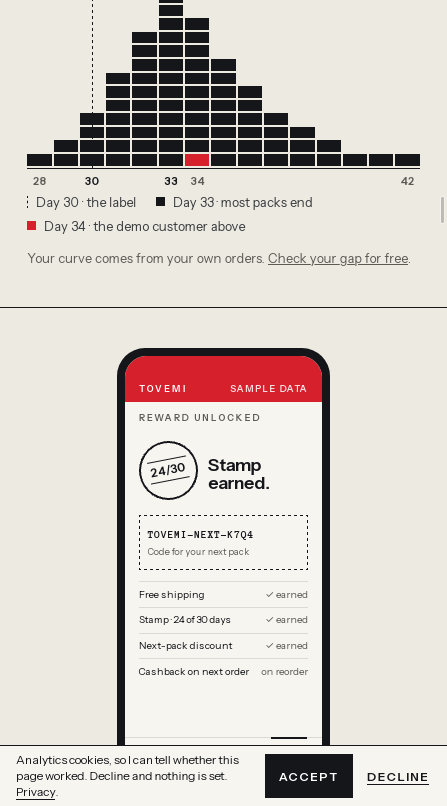
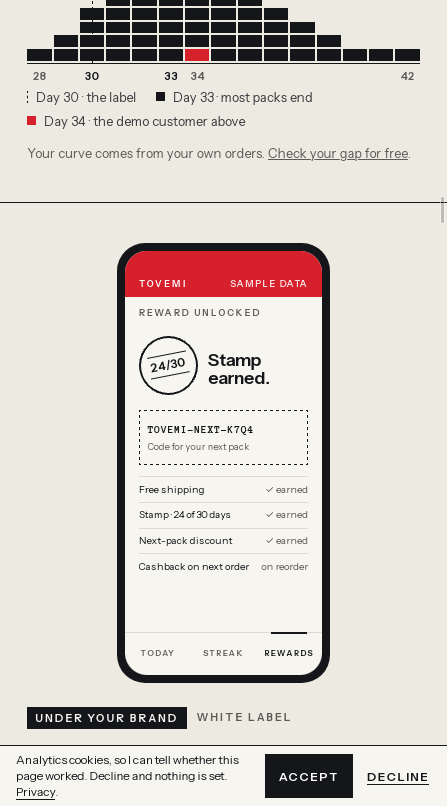
agencja: R5 p3 cz. 1 — /nawyko Paths (pas lekcji), Pharmacy (pełny kolor marki, telefon na środku), Privacy (wielkie zdanie, zapis danych) w trzech różnych układach; stan przed skanem, ciemny kolor marki, recenzje 38–39, monotonia 2, lekcja R26

Changed region(s): [[0.0582, 0.0, 0.9597, 0.9305]]

diff --git a/app/nawyko/NawykoClient.tsx b/app/nawyko/NawykoClient.tsx
@@ -3,7 +3,7 @@
 import { useCallback, useEffect, useRef, useState } from 'react'
 import { Enquiry } from './Enquiry'
 import { FAQ } from './content'
-import { DEMO_BRAND, inkOn, mix, monogram, onColour, useBrand } from '../lib/brand-engine'
+import { DEMO_BRAND, contrast, inkOn, mix, monogram, onColour, useBrand } from '../lib/brand-engine'
 
 /* Enquiry mieszka w ./Enquiry (przebieg 4): /work/genactiv importuje sam formularz, bez calej sceny. */
 export { Enquiry }
@@ -1376,10 +1376,10 @@ function Loyalty({ brand }: { skin: Skin; brand: string }) {
 /* ── runda 4 (d–f): sciezka wiedzy z prezentem, zakup w aptece, prywatnosc od projektu ── */
 /* Ten sam uklad „nk-still”. Stan domyslny (bez JS, reduced-motion) jest kompletny: sciezka w polowie z widocznym
    prezentem na mecie, zakup potwierdzony, funkcje zablokowane z przyciskiem. */
-function MoreScenes({ skin, brand }: { skin: Skin; brand: string }) {
+function MoreScenes({ brand }: { skin: Skin; brand: string }) {
   const [lesson, setLesson] = useState(3)
   const [scanN, setScanN] = useState(0)
-  const [bought, setBought] = useState(true)
+  const [bought, setBought] = useState(false)
   const [consent, setConsent] = useState(false)
   const timer = useRef<number | undefined>(undefined)
   useEffect(() => () => window.clearTimeout(timer.current), [])
@@ -1393,10 +1393,19 @@ function MoreScenes({ skin, brand }: { skin: Skin; brand: string }) {
   }
   const done = lesson >= LESSONS
 
+  const { colour } = useBrand()
+  const vars = {
+    ['--brand' as string]: colour,
+    ['--brand-on' as string]: onColour(colour),
+    ['--hi' as string]: inkOn(colour, '#0E0F12'),
+  }
+  const shown = Math.min(lesson, LESSONS)
+
   return (
-    <div className="nk-r4" id="more">
-      <section className="nk-still" id="paths" aria-labelledby="nk-path">
-        <div className="nk-panel">
+    <div className="nk-r4 nk-r5c" id="more" style={vars} data-dark={contrast(colour, '#0E0F12') < 2 ? '' : undefined}>
+      {/* spec 30: poziomy pas lekcji (papier) — bez telefonu; karty lekcji wygladaja jak karty aplikacji */}
+      <section className="nk-paths" id="paths" aria-labelledby="nk-path">
+        <div className="nk-pathhead">
           <div className="nk-caps nk-lab">
             <span className="nk-who">For you</span>
             <span className="nk-labrest">Learning paths</span>
@@ -1405,27 +1414,47 @@ function MoreScenes({ skin, brand }: { skin: Skin; brand: string }) {
             A second product, earned in five short lessons.
           </h2>
           <p className="nk-one">When the path is done, a gift code adds a matching product to the next order.</p>
-          <div className="nk-seg">
-            <button
-              type="button"
-              className="nk-sw"
-              onClick={() => setLesson((v) => (v >= LESSONS ? 1 : v + 1))}
-            >
-              {done ? 'Start again' : 'Next lesson'}
-            </button>
-          </div>
-          <p className="nk-fine" aria-live="polite">
-            <b className="nk-ex">Example</b> Lesson {Math.min(lesson + (done ? 0 : 1), LESSONS)} of {LESSONS}
-            {done ? ' · gift code ready' : ''}. You pick the lessons and the gift.
-          </p>
         </div>
-        <div className="nk-phonecol">
-          <Phone step={10} t={1} theme={skin} scratched brand={brand} lesson={lesson} />
+        <div className="nk-rail" aria-hidden="true">
+          <i style={{ transform: `scaleX(${shown / LESSONS})` }} />
         </div>
+        <ol className="nk-lessons" aria-label={`${brand} learning path`}>
+          {Array.from({ length: LESSONS }, (_, i) => {
+            const st = i < shown ? 'is-got' : i === shown ? 'is-now' : ''
+            return (
+              <li key={i} className={st}>
+                <button
+                  type="button"
+                  className="nk-lcard"
+                  aria-pressed={i < shown}
+                  onClick={() => setLesson(i < shown && i === shown - 1 ? i : i + 1)}
+                >
+                  <span className="nk-lmono" aria-hidden="true">
+                    {i < shown ? '✓' : i + 1}
+                  </span>
+                  <span className="nk-lname">Lesson {i + 1}</span>
+                  <span className="nk-lst">{i < shown ? 'Done' : i === shown ? 'Up next' : 'Later'}</span>
+                </button>
+              </li>
+            )
+          })}
+          <li className={'nk-lgift' + (done ? ' is-on' : '')}>
+            <span className="nk-lmono" aria-hidden="true">
+              {monogram(brand)}
+            </span>
+            <b>{done ? 'Gift code ready' : 'Gift at the finish'}</b>
+            <span>Free product on the next {brand} order.</span>
+          </li>
+        </ol>
+        <p className="nk-fine" aria-live="polite">
+          <b className="nk-ex">Example</b> {done ? 'All lessons done · gift code ready' : `Lesson ${shown} of ${LESSONS} done`}. Tap a lesson. {brand} picks
+          the lessons and gift.
+        </p>
       </section>
 
-      <section className="nk-still nk-flip" id="pharmacy" aria-labelledby="nk-pharm">
-        <div className="nk-panel">
+      {/* spec 30: pelnoekranowe przejecie w kolorze marki — telefon na srodku, dwa zrodla zakupu po bokach */}
+      <section className="nk-pharm" id="pharmacy" aria-labelledby="nk-pharm">
+        <div className="nk-pharmhead">
           <div className="nk-caps nk-lab">
             <span className="nk-who">For you</span>
             <span className="nk-labrest">Pharmacy purchases</span>
@@ -1434,46 +1463,70 @@ function MoreScenes({ skin, brand }: { skin: Skin; brand: string }) {
             Pharmacy buyers show up in your data after one scan.
           </h2>
           <p className="nk-one">A pack bought offline starts the daily card, just like an online order.</p>
-          <div className="nk-seg">
-            <button type="button" className="nk-sw" onClick={scan}>
-              Scan the box
-            </button>
+        </div>
+        <div className="nk-pharmstage">
+          <div className="nk-src">
+            <span>Bought online</span>
+            <b>Added automatically</b>
           </div>
+          <div className="nk-phonecol">
+            <Phone step={11} t={1} theme="night" scratched brand={brand} scanN={scanN} bought={bought} />
+          </div>
+          <div className={'nk-src' + (bought ? ' is-on' : '')}>
+            <span>Bought in a pharmacy</span>
+            <b>{bought ? 'Box scanned' : scanN > 0 ? 'Scanning…' : 'Not scanned yet'}</b>
+          </div>
+        </div>
+        <div className="nk-pharmfoot">
+          <button type="button" className="nk-scanbtn" onClick={scan}>
+            Scan the box
+          </button>
           <p className="nk-fine" aria-live="polite">
-            <b className="nk-ex">Example</b> {bought ? 'Pack registered · bought offline.' : 'Scanning the box code…'} The box code
+            <b className="nk-ex">Example</b> {bought ? 'Pack registered · bought offline.' : scanN > 0 ? 'Scanning the box code…' : 'Tap “Scan the box”.'} The box code
             registers the pack; a receipt confirms where it was bought.
           </p>
         </div>
-        <div className="nk-phonecol">
-          <Phone step={11} t={1} theme={skin} scratched brand={brand} scanN={scanN} bought={bought} />
-        </div>
       </section>
 
-      <section className="nk-still" id="privacy" aria-labelledby="nk-priv">
-        <div className="nk-panel">
-          <div className="nk-caps nk-lab">
-            <span className="nk-who">For you</span>
-            <span className="nk-labrest">Privacy</span>
-          </div>
-          <h2 className="nk-h2" id="nk-priv">
-            Health data never reaches your marketing.
-          </h2>
-          <p className="nk-one">Without consent, the daily card and streak stay visible but locked, with one button to turn them on.</p>
-          <div className="nk-seg" role="group" aria-label="Show the app">
-            <button type="button" className="nk-sw" aria-pressed={!consent} onClick={() => setConsent(false)}>
-              Without consent
-            </button>
-            <button type="button" className="nk-sw" aria-pressed={consent} onClick={() => setConsent(true)}>
-              With consent
-            </button>
-          </div>
-          <p className="nk-fine" aria-live="polite">
-            <b className="nk-ex">Example</b> {consent ? 'Daily card and streak on.' : 'Daily card and streak locked.'} A tick is stored as a date,
-            never sent to ads, analytics or push messages.
-          </p>
+      {/* spec 30: wielkie zdanie typograficzne w atramencie; pod nim przelacznik, zapis danych i telefon w trzech kolumnach */}
+      <section className="nk-priv" id="privacy" aria-labelledby="nk-priv">
+        <div className="nk-caps nk-lab">
+          <span className="nk-who">For you</span>
+          <span className="nk-labrest">Privacy</span>
         </div>
-        <div className="nk-phonecol">
-          <Phone step={12} t={1} theme={skin} scratched brand={brand} consent={consent} onUnlock={() => setConsent(true)} />
+        <h2 className="nk-privbig" id="nk-priv">
+          Health data never reaches your marketing.
+        </h2>
+        <div className="nk-privrow">
+          <div className="nk-privctl">
+            <p className="nk-one">Without consent, the daily card and streak stay visible but locked, with one button to turn them on.</p>
+            <div className="nk-seg" role="group" aria-label="Show the app">
+              <button type="button" className="nk-sw" aria-pressed={!consent} onClick={() => setConsent(false)}>
+                Without consent
+              </button>
+              <button type="button" className="nk-sw" aria-pressed={consent} onClick={() => setConsent(true)}>
+                With consent
+              </button>
+            </div>
+            <p className="nk-fine" aria-live="polite">
+              <b className="nk-ex">Example</b> {consent ? 'Daily card and streak on.' : 'Daily card and streak locked.'}
+            </p>
+          </div>
+          <dl className={'nk-ledger' + (consent ? ' is-on' : '')}>
+            <div>
+              <dt>Stored</dt>
+              <dd>{consent ? 'Tick date only.' : 'Nothing.'}</dd>
+            </div>
+            <div>
+              <dt>Never sent to</dt>
+              <dd>
+                <s>Ads</s> <s>Analytics</s> <s>Push messages</s>
+              </dd>
+            </div>
+          </dl>
+          <div className="nk-phonecol">
+            <Phone step={12} t={1} theme="night" scratched brand={brand} consent={consent} onUnlock={() => setConsent(true)} />
+          </div>
         </div>
       </section>
     </div>

diff --git a/app/nawyko/nawyko.css b/app/nawyko/nawyko.css
@@ -1177,3 +1177,101 @@ html[data-brand-wait] .nk-hname,html[data-brand-wait] .nk-hmono,html[data-brand-
 .nk-tile-rate{box-shadow:0 0 0 1px rgba(255,255,255,.22);}
 .nk-tbtn-pri{box-shadow:0 0 0 1px rgba(255,255,255,.4);}
 .nk-tile-cash .nk-wbig span{min-height:1.4em;}
+
+/* ── spec 30 (R5 p3): Paths / Pharmacy / Privacy — trzy rozne uklady i trzy powierzchnie zamiast „tekst + telefon” w lustrze ──
+   papier (poziomy pas lekcji) → pelny kolor marki (telefon na srodku) → atrament (wielkie zdanie + trzy kolumny). */
+.nk-r5c > section{position:relative;padding:clamp(64px,9vw,128px) var(--m) calc(clamp(56px,8vw,112px) + var(--consent-rsv))!important;
+  scroll-margin-top:0;}
+.nk-r5c .nk-phonecol{perspective:none;}
+.nk-r5c .nk-phone{height:clamp(420px,60svh,520px);transform:none;box-shadow:none;}
+@media (max-width:860px){.nk-r5c .nk-phone{height:clamp(360px,56svh,440px);}}
+
+/* Paths: papier, pas lekcji jak karty aplikacji */
+.nk-paths{background:var(--paper);border-top:1px solid var(--ink);}
+.nk-pathhead{max-width:860px;}
+.nk-rail{height:4px;margin-top:clamp(36px,5vw,64px);background:var(--line,#DCDAD2);overflow:hidden;border-radius:2px;}
+.nk-rail i{display:block;height:100%;background:var(--hi);transform-origin:0 50%;transition:transform .5s cubic-bezier(.2,.8,.2,1);}
+.nk-lessons{list-style:none;margin:18px 0 0;padding:0;display:grid;grid-template-columns:repeat(6,minmax(0,1fr));gap:clamp(10px,1.2vw,16px);}
+.nk-lcard,.nk-lgift{display:flex;flex-direction:column;align-items:flex-start;gap:10px;width:100%;height:100%;min-height:150px;
+  padding:18px;border-radius:22px;background:#1B1D21;color:#F2F0EA;border:0;font:inherit;text-align:left;}
+.nk-lcard{cursor:pointer;transition:background .25s,transform .25s;}
+.nk-lcard:hover{background:#26292E;}
+.nk-lcard:active{transform:translateY(1px);}
+.nk-lcard:focus-visible{outline:3px solid var(--ink);outline-offset:3px;}
+.nk-lmono{display:grid;place-items:center;width:34px;height:34px;border-radius:10px;font-weight:700;font-size:14px;
+  background:#2C2F35;color:#F2F0EA;}
+.nk-lessons li.is-got .nk-lmono{background:var(--brand);color:var(--brand-on);box-shadow:0 0 0 1px rgba(255,255,255,.28);}
+.nk-lessons li.is-now .nk-lcard{box-shadow:0 0 0 2px var(--brand),0 0 0 3px rgba(255,255,255,.28) inset;}
+.nk-lname{font-size:16px;font-weight:600;margin-top:auto;}
+.nk-lst{font-size:12px;font-weight:600;letter-spacing:.14em;text-transform:uppercase;color:#B9B6AE;}
+.nk-lessons li.is-got .nk-lst{color:#F2F0EA;}
+.nk-lgift{background:transparent;color:var(--ink);box-shadow:0 0 0 1px var(--ink) inset;}
+.nk-lgift .nk-lmono{background:transparent;color:var(--ink);box-shadow:0 0 0 1px var(--ink);}
+.nk-lgift b{font-size:16px;margin-top:auto;}
+.nk-lgift span:last-child{font-size:13px;line-height:1.35;color:var(--ink2);}
+.nk-lgift.is-on{background:var(--brand);color:var(--brand-on);box-shadow:none;}
+.nk-lgift.is-on .nk-lmono{background:var(--brand-on);color:var(--brand);box-shadow:none;}
+.nk-lgift.is-on span:last-child{color:var(--brand-on);}
+@media (max-width:860px){.nk-lessons{grid-template-columns:repeat(2,minmax(0,1fr));}.nk-lcard,.nk-lgift{min-height:120px;}}
+
+/* Pharmacy: cala sekcja w kolorze marki, telefon na srodku */
+.nk-pharm{--ink:var(--brand-on);--ink2:var(--brand-on);--dim:var(--brand-on);background:var(--brand);color:var(--brand-on);text-align:center;}
+.nk-pharm :focus-visible{outline-color:var(--brand-on);}
+.nk-pharmhead{max-width:900px;margin:0 auto;display:flex;flex-direction:column;align-items:center;}
+.nk-pharm .nk-lab{justify-content:center;}
+.nk-pharm .nk-who{background:var(--brand-on);color:var(--brand);}
+.nk-pharm .nk-h2{max-width:20ch;}
+.nk-pharm .nk-one{margin-left:auto;margin-right:auto;}
+.nk-pharmstage{display:grid;grid-template-columns:minmax(0,1fr) auto minmax(0,1fr);align-items:center;gap:clamp(16px,3vw,48px);
+  margin:clamp(36px,5vw,64px) auto 0;max-width:1100px;}
+.nk-src{display:flex;flex-direction:column;gap:6px;padding:18px 20px;border-radius:20px;box-shadow:0 0 0 1px var(--brand-on) inset;
+  justify-self:end;min-width:min(100%,220px);transition:background .3s,color .3s;}
+.nk-pharmstage > .nk-src:last-child{justify-self:start;}
+.nk-src span{font-size:12px;font-weight:600;letter-spacing:.14em;text-transform:uppercase;}
+.nk-src b{font-size:18px;}
+.nk-src.is-on,.nk-pharmstage > .nk-src:first-child{background:var(--brand-on);color:var(--brand);}
+.nk-pharmfoot{display:flex;flex-direction:column;align-items:center;margin-top:clamp(24px,3vw,40px);}
+.nk-pharm .nk-fine{margin-left:auto;margin-right:auto;}
+.nk-scanbtn{min-height:48px;padding:0 26px;border:0;border-radius:999px;background:var(--brand-on);color:var(--brand);font:inherit;font-weight:700;
+  font-size:16px;cursor:pointer;}
+.nk-scanbtn:active{transform:translateY(1px);}
+.nk-scanbtn:focus-visible{outline:3px solid var(--brand-on);outline-offset:4px;}
+@media (max-width:860px){
+  .nk-pharmstage{grid-template-columns:minmax(0,1fr) minmax(0,1fr);}
+  .nk-pharmstage .nk-phonecol{grid-column:1 / -1;order:-1;}
+  .nk-src,.nk-pharmstage > .nk-src:last-child{justify-self:stretch;min-width:0;padding:14px;}
+  .nk-src b{font-size:16px;}
+}
+
+/* Privacy: atrament, wielkie zdanie, potem trzy kolumny (przelacznik · zapis danych · telefon) */
+.nk-priv{--ink:#F2F0EA;--ink2:#C9C6BE;--dim:#A9A69E;background:#0E0F12;color:var(--ink);}
+.nk-priv :focus-visible{outline-color:#F2F0EA;}
+.nk-priv .nk-who{color:#0E0F12;}
+.nk-privbig{font-weight:600;font-size:clamp(40px,7.4vw,112px);line-height:.98;letter-spacing:-.045em;max-width:14ch;margin-top:20px!important;}
+.nk-privrow{display:grid;grid-template-columns:minmax(0,1.1fr) minmax(0,1fr) auto;gap:clamp(24px,4vw,64px);align-items:center;
+  margin-top:clamp(36px,5vw,64px);}
+.nk-priv .nk-sw{border-color:#F2F0EA;color:#F2F0EA;}
+.nk-priv .nk-sw[aria-pressed="true"]{background:#F2F0EA;color:#0E0F12;}
+.nk-ledger{margin:0;display:flex;flex-direction:column;gap:14px;}
+.nk-ledger > div{padding:18px 20px;border-radius:20px;background:#1B1D21;}
+.nk-ledger dt{font-size:12px;font-weight:600;letter-spacing:.14em;text-transform:uppercase;color:#B9B6AE;}
+.nk-ledger dd{margin:8px 0 0;font-size:18px;font-weight:600;}
+.nk-ledger.is-on > div:first-child{background:var(--brand);color:var(--brand-on);}
+.nk-ledger.is-on > div:first-child dt{color:var(--brand-on);}
+.nk-ledger s{text-decoration-thickness:2px;color:#C9C6BE;margin-right:10px;white-space:nowrap;}
+@media (max-width:1100px){.nk-privrow{grid-template-columns:minmax(0,1fr) auto;}.nk-privctl{grid-column:1 / -1;}}
+@media (max-width:860px){.nk-privrow{grid-template-columns:1fr;}.nk-privrow .nk-phonecol{order:-1;}}
+@media (prefers-reduced-motion:reduce){.nk-rail i,.nk-lcard,.nk-src{transition:none;}}
+/* recenzja 38: przelacznik zgody nad zgieciem na 1440×900; przy bardzo ciemnym kolorze marki #privacy przechodzi na gline,
+   zeby kolor marki (#pharmacy) i atrament nie zlaly sie w dwa czarne bloki pod rzad. */
+.nk-privbig{font-size:clamp(40px,6.2vw,92px);}
+.nk-privrow{align-items:start;margin-top:clamp(28px,4vw,48px);}
+.nk-r5c[data-dark] .nk-priv{--ink:#14161A;--ink2:#3A3C40;--dim:#5C5B56;background:var(--tint);color:var(--ink);}
+.nk-r5c[data-dark] .nk-priv :focus-visible{outline-color:#14161A;}
+.nk-r5c[data-dark] .nk-priv .nk-who{color:var(--paper);}
+.nk-r5c[data-dark] .nk-priv .nk-sw{border-color:#14161A;color:#14161A;}
+.nk-r5c[data-dark] .nk-priv .nk-sw[aria-pressed="true"]{background:#14161A;color:#F2F0EA;}
+.nk-r5c[data-dark] .nk-ledger > div{background:var(--paper);box-shadow:0 0 0 1px #14161A inset;}
+.nk-r5c[data-dark] .nk-ledger dt{color:#5C5B56;}
+.nk-r5c[data-dark] .nk-ledger s{color:#3A3C40;}
+.nk-r5c[data-dark] .nk-ledger.is-on > div:first-child{background:var(--brand);color:var(--brand-on);box-shadow:none;}

diff --git a/agencja/postep-uczenia.md b/agencja/postep-uczenia.md
@@ -48,3 +48,5 @@ Jedna linia na przebieg: data · czego się nauczyliśmy (źródło) · co konkr
 - 24.11 17:25 · Retro: (1) przebieg 1 rundy 5 zostawił na iPhonie z paskiem cookies uciętą scenę „Your brand” (wybór koloru wydłużył panel o ok. 120 px; `short-390c` 77 problemów, także 1100×620 i 1280×720) — w „Dla Rafała” napisał „wszystko PASS poza płynnością”, choć `gates.sh` dawał FAIL; złapane A/B ze starym buildem w tym przebiegu (R24.1). (2) nowa klasa `.nk-wl` zderzyła się z istniejącą klasą siatki — układ desktopu się rozjechał; złapała bramka niskiego okna (R24.2). (3) skala `transform` na rodzicu zdrapki dała płótno w złej rozdzielczości (ogromne litery „TCH”) — złapane na własnych zrzutach (R24.3).
 - 24.11 18:35 (runda 5, przebieg 2 cz. 2) · LogRocket „Bento grids UX” (https://blog.logrocket.com/ux-design/bento-grids-ux/, 2025-01-24; źródło słabe — samouczek Figmy, bez zasad dostępności): nierówne rozmiary kafli i mikrointerakcje · Zmiana: portfel `/nawyko` jako bento 7/5/12 kolumn, największy kafel = komunikat nagłówka (cashback), każda kontrolka zmienia coś w tym samym kaflu (przełącznik → podpis kwoty; suwak → wartość punktów obok suwaka, bo na 390 kafel punktów jest 600 px wyżej — recenzja 35). Szukać mocniejszego źródła (NN/g o kartach/siatkach) przed p3.
 - 24.11 18:35 · Retro: (1) pierwsza bramka `monotonia` — FAIL całej strony; najdłużej niezauważone: cztery sceny pod rząd w jednym układzie (R25.1). (2) `qa.js` złapał tekst tylko dla czytnika (R25.2), `jsonld` złapał nagłówek zniknięty z JSON-LD (R25.3). (3) Zrzuty ze starego serwera bez CSS — `pkill` nie zabił `next-server` (R25.4). (4) `scroll-perf-390` FAIL; A/B ze starym buildem pokazało, że stary też przekracza próg na dzisiejszej maszynie — nowy ok. 15 ms gorszy; nie ogłoszone jako gotowe.
+- 24.11 19:20 (runda 5, przebieg 3 cz. 1) · NN/g „Cards: UI-Component Definition” (Page Laubheimer, https://www.nngroup.com/articles/cards-component/, 2016-11-06): karty do przeglądania różnorodnych elementów, sekwencja podobnych = lista; cała karta jako link z kontrastowym tłem/obramowaniem jako sygnałem klikalności · Zmiana: lekcje `/nawyko#paths` jako `<ol>` z paskiem postępu (nie bento), cała karta = jeden przycisk na kontrastowym tle.
+- 24.11 19:20 · Retro: (1) zderzenie klasy `.nk-scan` (R26.1) — złapane na własnych zrzutach, nie przez bramkę; (2) stan „po” przed kliknięciem skanu i dwa czarne bloki przy ciemnym kolorze marki — złapał niezależny recenzent (R26.2, R26.3); (3) czytelnik przepisał 5 z ok. 20 nowych tekstów, w tym dwa ryzykowne prawnie przy danych zdrowotnych (R26.4 → rubryka „Odrzucone”); (4) `scroll-perf-1440` FAIL — A/B ze starym buildem: brak różnicy, problem zastany. Metryka: monotonia 36 → 38: sekcje „nudne” 5 → 4 (zostały 4, 5, 6, 12).

diff --git a/agencja/recenzje/38-r5p3c-review.md b/agencja/recenzje/38-r5p3c-review.md
@@ -1,0 +1,16 @@
+# Recenzja 38 — R5 p3 cz. 1: `#paths`, `#pharmacy`, `#privacy` (niezależny subagent, 24.11.2026 ok. 18:50)
+
+Zrzuty: `agencja/podglad/r5p3c-rev-*.png`. Marka „Acme” w #111111 i #FFE14D, 1440×900 i 390×844, klawiatura, reduced-motion.
+
+BLOKUJĄCE: brak.
+WAŻNE (wszystkie poprawione w tym przebiegu):
+1. „Scan the box” pokazywał wynik przed kliknięciem (telefon „registered”, karta „Box scanned”) → stan początkowy = przed skanem („Not scanned yet”), skan → „Scanning…” → „Box scanned”. Zrzuty `r5p3c-v2-pharmacy-*`.
+2. Ciemny kolor marki (#111111): `#pharmacy` i `#privacy` zlewały się w dwa czarne bloki → przy kontraście koloru z #0E0F12 < 2 `#privacy` przechodzi na glinę (`data-dark`). Zrzut `r5p3c-v2-privacy-acme111-1440.png`.
+3. `#privacy` na 1440×900: przełącznik pod zgięciem → wielkie zdanie max 92 px, rząd wyrównany do góry; przełącznik na y≈600. Zrzut `r5p3c-v2-privacy-demo-1440.png`.
+DROBNE: lekcja 5 „Locked”, choć klikalna → „Later” (poprawione); „HEALTH DATA CONSENT · OFF” łamie się na 390 (stary ekran telefonu — zostaje); kolor marki na całej sekcji także w `#pharmacy` — finał nadal najmocniejszy.
+
+Rubryka: oryginalność, 5 s, zero kiczu, interaktywność, personalizacja (0 × „Tovemi” poza placeholderem pola), brak przesunięć przy klikaniu, reduced-motion, klawiatura i fokus, kontrast AA (0 błędów przy #111 i #FFE14D), liczby/marki — PASS. Żywość: PASS przy domyślnym kolorze, przy ciemnym FAIL → poprawione (pkt 2).
+
+## Monotonia 2 (cała `/nawyko`, 1440 i 390): FAIL, lepiej niż 36
+Naprawione: 9–11 (Paths/Pharmacy/Privacy) — odcinek od portfela ma teraz 5 różnych układów i 3 tony (atrament → papier → kolor marki → atrament → papier).
+Zostaje: (a) sekcje 4–6 (nagrody, „See the day…”, white label) — trzy razy „tekst + telefon po prawej” na glinie; (b) histogram „See the day…” i `#integrations` bez interakcji; (c) telefon z listą nagród i kodem `…-NEXT-K7Q4` w sekcjach 4, 6 i 13, kod wraca w finale. Finał — najmocniejszy (PASS).

diff --git a/agencja/teksty-do-akceptacji.md b/agencja/teksty-do-akceptacji.md
@@ -359,3 +359,16 @@ Czytelnik-kupujący: `agencja/recenzje/37-r5p3-teksty.md` (6 tekstów przepisany
 | /nawyko | kafel portfela | Cashback wallet · off the next one-off order / off the next subscription delivery · earned in N orders · Place order N · Start again · One-off order / Subscription · Example €2 back per order. You set the rate. | nowy |
 | /nawyko | kafel punktów | Points and levels · Scratch today +10 · Skip a day · Example N points to Silver. / Day skipped. Level kept. / Top level reached. · N points = €X at {marka}’s rate. | nowy |
 | /nawyko | kafel panelu marki | For you · {marka} brand panel · You set what each point is worth. · Move the rate. The customer’s points change value at once. · Example N points now = €X. A month of daily cards: €Y in points per customer. | nowy |
+
+## R5 przebieg 3 cz. 1 — Paths / Pharmacy / Privacy w nowych układach (24.11.2026, spec 30)
+Czytelnik-kupujący: `agencja/recenzje/39-r5p3c-teksty.md` (5 przepisanych). copy-voice OK. Nagłówki h2 bez zmian.
+
+| Trasa | Miejsce | Tekst | Status |
+|---|---|---|---|
+| /nawyko | Paths, karty | Lesson 1–5 · Done / Up next / Later | nowy |
+| /nawyko | Paths, meta | Gift at the finish / Gift code ready · Free product on the next {marka} order. | nowy (po czytelniku) |
+| /nawyko | Paths, notka | Example · Lesson 3 of 5 done. / All lessons done · gift code ready. Tap a lesson. {marka} picks the lessons and gift. | zmienione (po czytelniku) |
+| /nawyko | Pharmacy, karty | Bought online · Added automatically / Bought in a pharmacy · Not scanned yet / Scanning… / Box scanned | nowy (po czytelniku) |
+| /nawyko | Pharmacy, notka | Tap “Scan the box”. (stan przed skanem) | nowy |
+| /nawyko | Privacy, zapis | Stored · Nothing. / Tick date only. · Never sent to · Ads · Analytics · Push messages | nowy (po czytelniku) |
+| /nawyko | Privacy, notka | Example · Daily card and streak on. / locked. (usunięte zdanie o zapisie daty — przeszło do karty „Stored”) | skrócone |

diff --git a/agencja/rubryka-tekstow.md b/agencja/rubryka-tekstow.md
@@ -34,6 +34,7 @@ czytał tekstów oczami kupującego. Ta rubryka to naprawia. Niespełniony punkt
   i dlaczego” na dole tego pliku — to jest pamięć gustu Rafała; czytaj ją przed pisaniem nowych tekstów.
 
 ## Odrzucone i dlaczego (pamięć gustu)
+- 24.11 „Stored — Nothing yet.” / „A date. Nothing else.” (`/nawyko` Privacy) — czytelnik: „yet” zapowiada zapis później, „Nothing else” jest fałszywe w szerokim odczycie (aplikacja ma konto i zakupy). Przy danych zdrowotnych bez „yet” i bez absolutów bez zakresu. Zamiast: „Nothing.” / „Tick date only.”
 - 24.11 „The Nawyko app” (link w nagłówku `/`) — czytelnik-kupujący: „obcy wyraz, nie mówi, co dostaje marka, brzmi jak aplikacja do pobrania dla mnie”. Zamiast: „Nawyko reorder app”. Nazwa własna w nawigacji zawsze z jednym zwykłym słowem opisu (NN/g „Category Names Suck”).
 - 24.11 „Claim: supports immunity” (przełącznik zakazanej funkcji na `/nawyko`) — na stronie o suplementach treść oświadczenia zdrowotnego, nawet jako zakazany przykład, na zrzucie czyta się jak oświadczenie samej strony. Zamiast: „Add a health claim to a card”. Nigdy nie cytujemy treści oświadczeń zdrowotnych.
 - 22.11 „Your name on it, not mine.” — egocentryczne i przemądrzałe; autor strony w roli bohatera. Zamiast: „Your brand. Your colours. Your app.”

diff --git a/agencja/specs/30-r5p3-paths-pharmacy-privacy.md b/agencja/specs/30-r5p3-paths-pharmacy-privacy.md
@@ -1,0 +1,13 @@
+# Spec 30 — R5 p3 (cz. 1): Paths / Pharmacy / Privacy w trzech różnych układach (24.11.2026)
+
+Źródło: bramka `monotonia` 36 — sekcje 9–11 to „tekst + telefon” w lustrze, dwie oceniane „nudne”.
+
+## Kryteria
+1. Trzy różne układy i trzy powierzchnie: `#paths` papier, poziomy pas pięciu lekcji + karta mety (bez telefonu);
+   `#pharmacy` cała sekcja w kolorze marki, telefon na środku, karty „Bought online” / „Bought in a pharmacy”, przycisk pod telefonem;
+   `#privacy` atrament, wielkie zdanie (h2 bez zmian), pod nim przełącznik · zapis danych („Stored” / „Never sent to”) · telefon.
+2. Każda sekcja reaguje: lekcje klikalne (pas postępu w kolorze marki), skan zmienia telefon i kartę, przełącznik zgody zmienia telefon i zapis.
+3. Stan początkowy `#pharmacy` = przed skanem (recenzja 38: wynik przed kliknięciem przeczył przyciskowi).
+4. Ciemny kolor marki (kontrast z #0E0F12 < 2): `#privacy` na glinie, żeby nie było dwóch czarnych bloków pod rząd.
+5. Nagłówki h2 bez zmian (JSON-LD `FEATURES`), id sekcji bez zmian (pasek rozdziałów).
+6. Bramki: `gates.sh /nawyko` (w tym WebKit 390/1440, brand-propagation), lint bez nowych ostrzeżeń, czytelnik-kupujący, recenzja niezależna.

diff --git a/agencja/recenzje/39-r5p3c-teksty.md b/agencja/recenzje/39-r5p3c-teksty.md
@@ -1,0 +1,9 @@
+# Czytelnik-kupujący 39 — nowe teksty `#paths`, `#pharmacy`, `#privacy` (24.11.2026)
+Automat `copy-voice`: OK.
+Przyjęte zmiany: „A matching product on the next {marka} order.” → „Free product on the next {marka} order.” (matching = niejasne);
+„You pick the lessons and the gift.” → „{marka} picks the lessons and gift.” (You obok ekranu aplikacji = klient końcowy);
+„Order synced” → „Added automatically” (żargon); „Stored — Nothing yet.” → „Nothing.” („yet” sugeruje zapis później);
+„Stored — A date. Nothing else.” → „Tick date only.” („Nothing else” fałszywe w szerokim odczycie — aplikacja ma też konto i zakupy).
+Nieprzyjęte: „Daily card” → „Daily check-in” — „daily card” to termin całej strony (zdrapka dnia), czytelnik nie widział kontekstu.
+Zastrzeżenie czytelnika: czy aplikacja ma ścieżki lekcji — sekcja istnieje od R4 p1 na podstawie opisu doradcy; bez zmian.
+Lekcja: przy danych zdrowotnych nie pisać „yet” ani absolutnego „Nothing else” bez wskazania, czego zdanie dotyczy.

diff --git a/agencja/wiedza/kolejka.md b/agencja/wiedza/kolejka.md
@@ -24,4 +24,4 @@ Każda porcja: źródło (link + data) → jedna konkretna zmiana na stronie alb
 15. ~~CSS — zapytania kontenera mierzą content box~~ (24.11 R4 p15: W3C CSS Containment 3 → próg 684 px, reguła R22)
 
 16. ~~Strony produktowe — zakończenie długiej strony (NN/g „The Peak–End Rule”)~~ (24.11 R5 p2: finał „One morning” = szczyt + koniec obok siebie). Zostaje: emocja + dowód (NN/g „aesthetic-usability effect”) przed p3 — rytm „moment klienta → liczba dla marki”.
-17. ~~Bento — LogRocket „Bento grids UX” (2025-01-24)~~ (24.11 R5 p2 cz. 2: portfel jako bento, skutek każdej kontrolki w tym samym kaflu). Zostaje: mocniejsze źródło o siatkach kart (NN/g „Cards: UI-Component Definition”) przed p3.
+17. ~~Bento — LogRocket „Bento grids UX” (2025-01-24)~~ (24.11 R5 p2 cz. 2: portfel jako bento, skutek każdej kontrolki w tym samym kaflu). ~~Mocniejsze źródło: NN/g „Cards: UI-Component Definition”~~ (24.11 R5 p3 cz. 1: lekcje jako lista-sekwencja, cała karta klikalna). Zostaje: emocja + dowód (NN/g „aesthetic-usability effect”).
